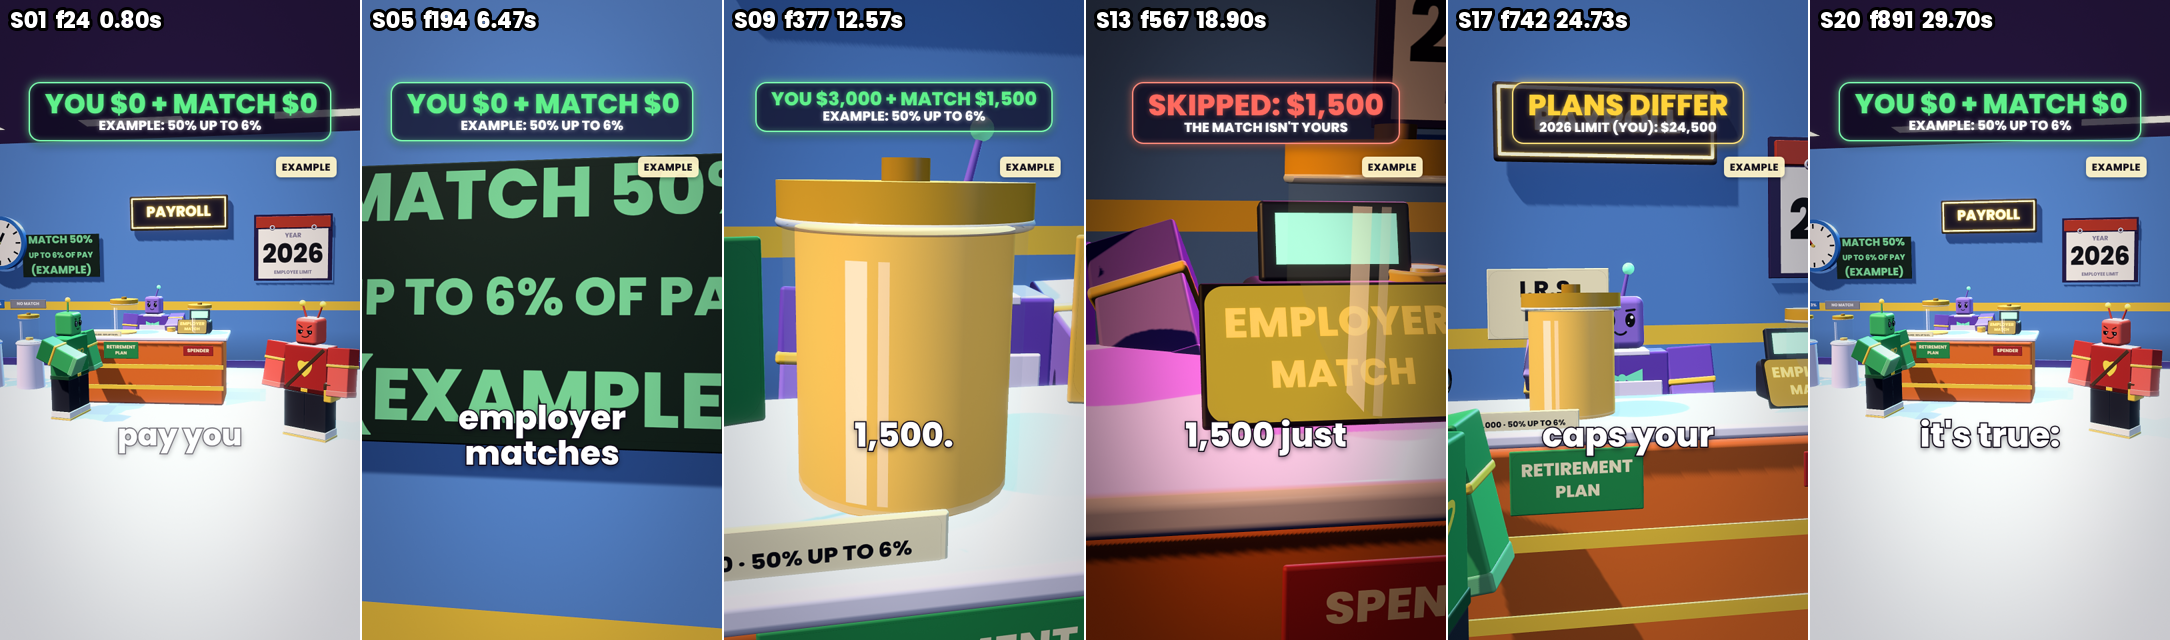
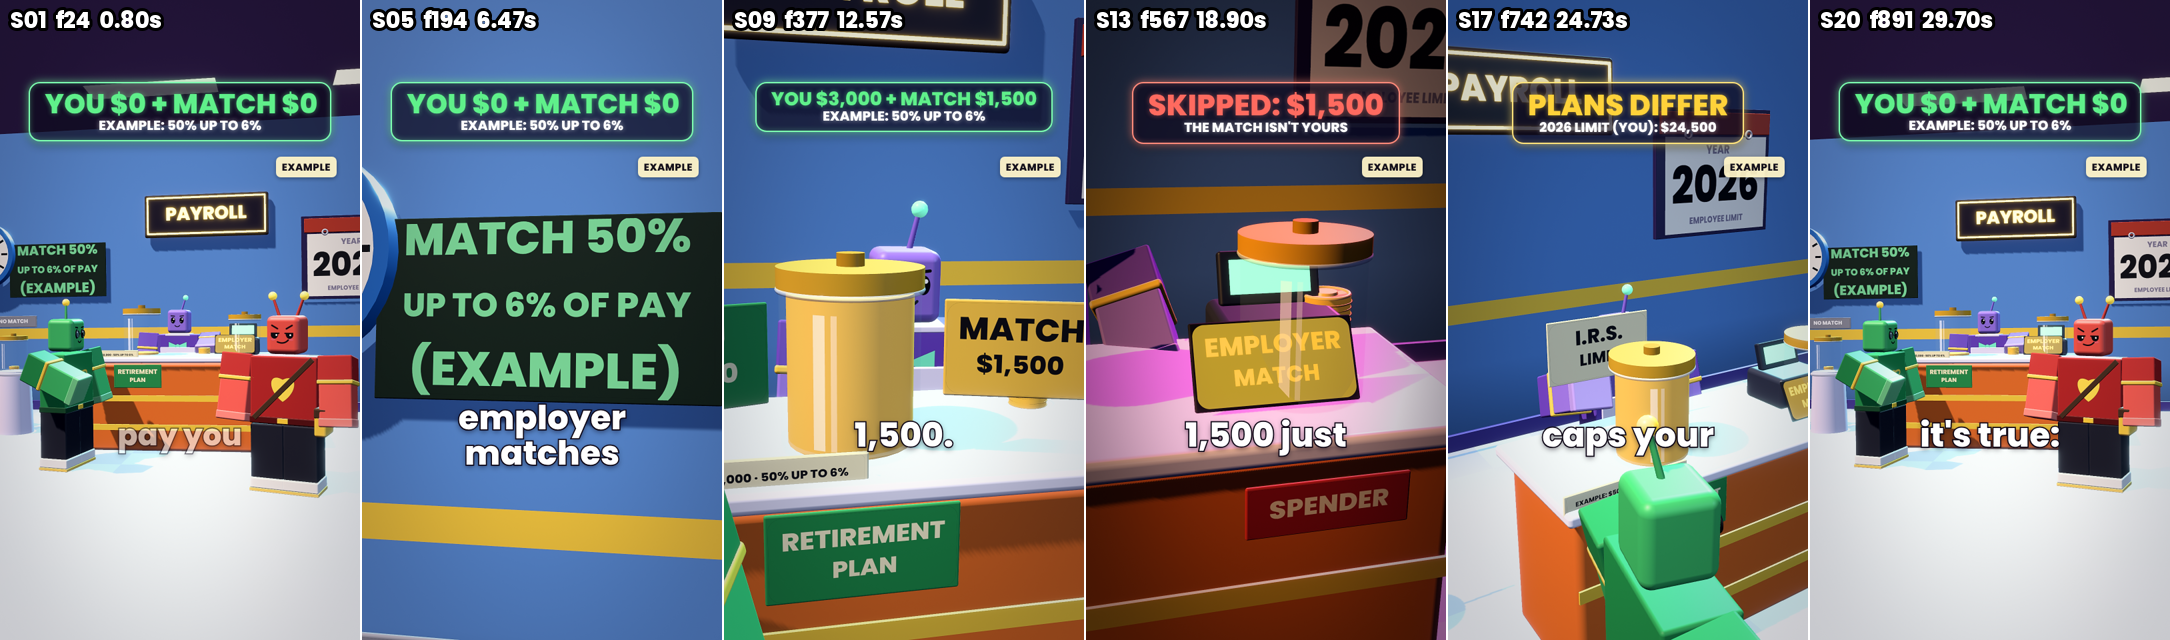
finance F2: employer-match round-2 sheet + S17/S13 fixes
Claude-Session: https://claude.ai/code/session_01D7r6b9GaQTXrUiCNiGbAsa

diff --git a/finance/render-pc/src/fin/match.tsx b/finance/render-pc/src/fin/match.tsx
@@ -52,7 +52,7 @@ const LENS: Record<string, Omit<FinShot, "id" | "a" | "b">> = {
   S14: fitted([...body(P_SP, S.spender, true), [JAR_B[0], TOP + 0.3, JAR_B[2]]], -24, 0.06, D.S14, { mood: "whisper" }),
   S15: fitted([[JARS3[0] - 0.9, 0, JARS3[2]], [JARS3[0] + 0.9, 1.6, JARS3[2]]], 12, 0.15, D.S15, { mood: "store" }),
   S16: manual([CLOCK[0] + 0.5, CLOCK[1] - 0.3, CLOCK[2]], 16, 2.3, -0.1, { mood: "store" }),
-  S17: fitted([...tl(), [P_TL[0] + 0.35, 2.3, P_TL[2]]], -32, 0.3, D.S17, { mood: "store" }),
+  S17: fitted([...tl(), [P_TL[0] + 0.35, 2.3, P_TL[2]]], -40, 0.55, D.S17, { mood: "store" }),
   S18: manual([P_TL[0] + 0.25, 1.85, P_TL[2] + 0.3], -30, 1.6, 0.3, { mood: "store" }),
   S19: manual([CAL[0], CAL[1] - 0.15, CAL[2]], -12, 2.0, 0.0, { mood: "store" }),
   S20: fitted([...sv(), ...tl(), ...body(P_SP0, S.spender), [JAR[0], TOP + 0.5, JAR[2]]], 8, 0.1, D.S20, { mood: "store", fov: 52, face: 0.6, m: 0.06 }),
@@ -76,7 +76,7 @@ const scene = (t: number, shot: FinShot, tau: number): React.ReactNode => {
     if (loop || i === 8) { pose = { ...pose, armR: 1.35 - 0.25 * ss(0.3, 0.9, tau), outR: -0.05 }; held = tau < 0.6 ? { side: "R", node: <CoinStack p={[0, -0.02, 0.06]} n={i === 8 ? 14 : 8} s={1.3} /> } : undefined; }
     if (i === 4) { pose = { ...pose, armR: 1.25 }; held = { side: "R", node: <group position={[0, 0.22, 0.05]}><Sheet lines={["PAYSLIP", "$50,000/YR", "EXAMPLE"]} /></group> }; emo = "curious"; }
     if (i === 11) emo = "joy";
-    if (i <= 11 || i >= 15) actors.push(<Act key="sv" look={SAVER} pose={pose} emotion={emo} s={S.saver} t={t} seed={4} held={held} />);
+    if (i <= 11 || i === 15 || i === 20) actors.push(<Act key="sv" look={SAVER} pose={pose} emotion={emo} s={S.saver} t={t} seed={4} held={held} />);
   }
   // Teller, the employer (behind the counter on a hidden step)
   {
@@ -121,7 +121,7 @@ const scene = (t: number, shot: FinShot, tau: number): React.ReactNode => {
       <Label p={[JAR[0], TOP - 0.2, DESK[2] + 0.36]} text={["RETIREMENT", "PLAN"]} w={0.5} h={0.24} bg={PAL.cash} fg="#fff4c8" />
       <group position={JAR_B} scale={1.1}><Jar label={false} /></group>
       <Label p={[JAR_B[0], TOP - 0.2, DESK[2] + 0.36]} text={["SPENDER"]} w={0.42} h={0.14} bg={PAL.debt} fg="#fff4c8" />
-      <Label p={[DESK[0] + 0.55, TOP + 0.12, DESK[2] + 0.2]} r={[-0.5, 0, 0]} text={["EMPLOYER", "MATCH"]} w={0.42} h={0.22} bg="#16121c" fg="#ffd23a" glow={0.4} />
+      <Label p={[DESK[0] - 0.55, TOP + 0.12, DESK[2] + 0.25]} r={[-0.5, 0, 0]} text={["EMPLOYER", "MATCH"]} w={0.42} h={0.22} bg="#16121c" fg="#ffd23a" glow={0.4} />
       {/* the match: half-size bundle beside the full one (S06), the $3,000 / $1,500 stacks (S08-S11), sliding away (S13) */}
       {i === 6 ? (
         <>
